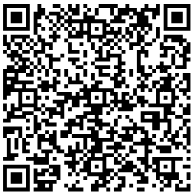
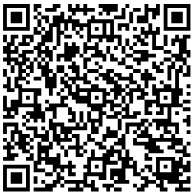
Première clé de sécurité ou application ajoutable après une seule preuve (démarrage quand les e-mails ne partent pas encore), signalée par e-mail et au journal ; ensuite deux preuves pour toute modification
Test : navigateur_cles.py 12 OK ; étapes 2, 3, 5 OK.

diff --git a/app/modules/compte/module.php b/app/modules/compte/module.php
@@ -91,6 +91,7 @@ return [
             unset($_SESSION['totp_en_attente']);
             ajouter_facteur('totp');
             journal(null, $member, 'Application d\'authentification activée');
+            mail_send($member['email'], 'Application d\'authentification activée', "Une application d'authentification vient d'être activée sur votre compte. Si ce n'est pas vous, prévenez l'administrateur.\n");
             flash('succes', 'Application d\'authentification activée.');
             redirect('/compte');
         }],
@@ -124,12 +125,13 @@ return [
     ],
 ];
 
-// Modifier la sécurité du compte : deux preuves si le compte a des droits ou un second facteur déjà configuré
-// (sinon, quelqu'un qui n'a que le mot de passe pourrait ajouter sa propre clé)
+// Modifier la sécurité du compte : deux preuves dès qu'un second facteur existe (sinon, quelqu'un qui n'a que
+// le mot de passe pourrait remplacer la clé). Le tout premier (clé ou application) s'ajoute après une seule preuve :
+// c'est ce qui permet de démarrer quand les e-mails ne partent pas encore. Un e-mail et le journal le signalent.
 function securite_membre(): array
 {
     $member = require_member();
-    if ((member_rights($member['id']) || member_exige_2fa($member)) && count(facteurs()) < 2) {
+    if (member_exige_2fa($member) && count(facteurs()) < 2) {
         $_SESSION['apres_connexion'] = request_path() === '/compte/double-authentification' ? '/compte/double-authentification' : '/compte';
         redirect('/connexion/double-authentification');
     }

diff --git a/tests/navigateur_cles.py b/tests/navigateur_cles.py
@@ -36,12 +36,11 @@ with sync_playwright() as p:
     page.click('button[type=submit]')
     page.wait_for_load_state('networkidle')
     connexion_mdp(page)
-    page.goto(SITE + '/compte/double-authentification')
-    check('compte qui gère : seconde vérification avant de toucher à la sécurité', '/connexion/double-authentification' in page.url)
-    with page.expect_navigation():
-        page.click('button:has-text("M\'envoyer un code")')
-    page.fill('#champ-code-email', dernier_code()); page.click('form[action$="/code"] button[type=submit]')
-    check('code par e-mail accepté, retour à la page de sécurité', page.url.endswith('/compte/double-authentification'))
+    page.goto(SITE + '/admin/parametres')
+    check('gestion avec une seule preuve : seconde vérification demandée', '/connexion/double-authentification' in page.url)
+    check('la page propose d\'ajouter une première clé sans code e-mail', page.locator('text=Ajoutez-en une maintenant').count() == 1)
+    page.click('text=Ajoutez-en une maintenant')
+    check('première clé : page de sécurité accessible sans code e-mail (e-mails pas encore réglés)', page.url.endswith('/compte/double-authentification'))
 
     # QR code de l'application : présent, lisible, et il contient exactement la clé affichée
     page.click('summary:has-text("Application d\'authentification")')

diff --git a/app/modules/connexion/views/totp.php b/app/modules/connexion/views/totp.php
@@ -52,8 +52,8 @@
   </details>
   <?php endif ?>
 
-  <?php if (!$cle): ?>
-  <p class="petit">Pas encore de clé de sécurité (YubiKey, empreinte, téléphone) ? Vous pourrez en ajouter une dans <strong>Mon compte › Sécurité du compte</strong>, juste après cette vérification. Elle vous sera ensuite proposée ici.</p>
+  <?php if (!$cle && !$totp && $deja_connecte): ?>
+  <p class="petit">Pas encore de clé de sécurité (YubiKey, empreinte, téléphone) ni d'application ? <a href="<?= e(url('/compte/double-authentification')) ?>">Ajoutez-en une maintenant</a> : la première se règle sans code e-mail, et vaut seconde preuve.</p>
   <?php endif ?>
   <?php if (!$cle && !$totp && !$email && !$mdp): ?>
   <p>Aucun second moyen disponible : définissez un mot de passe ou ajoutez une clé de sécurité depuis votre compte.</p>
